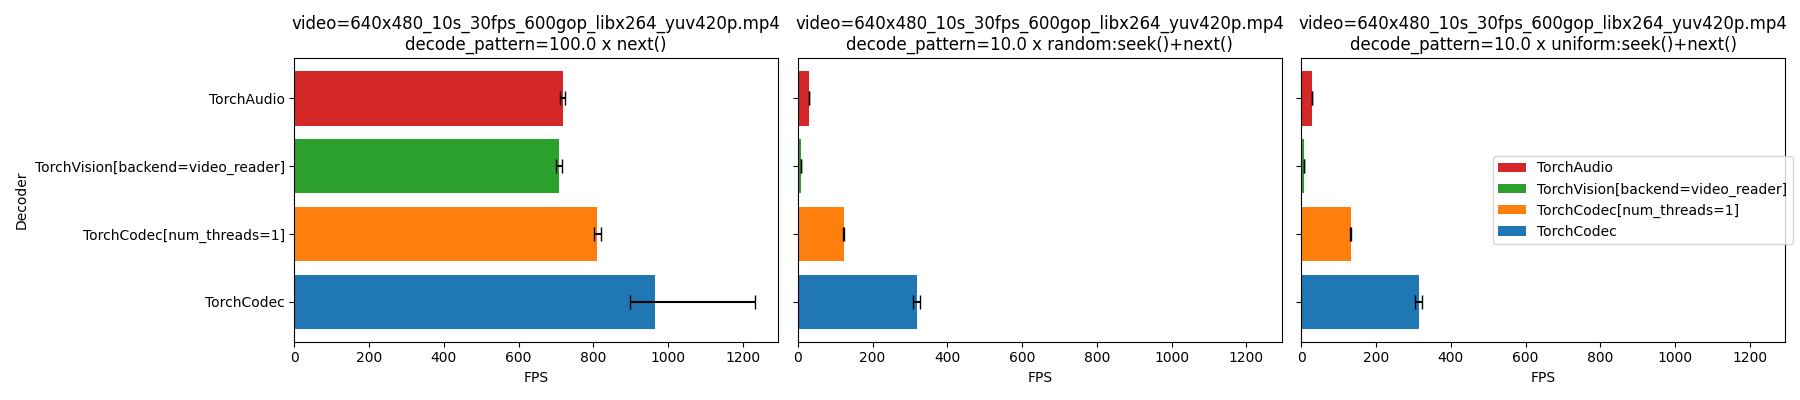
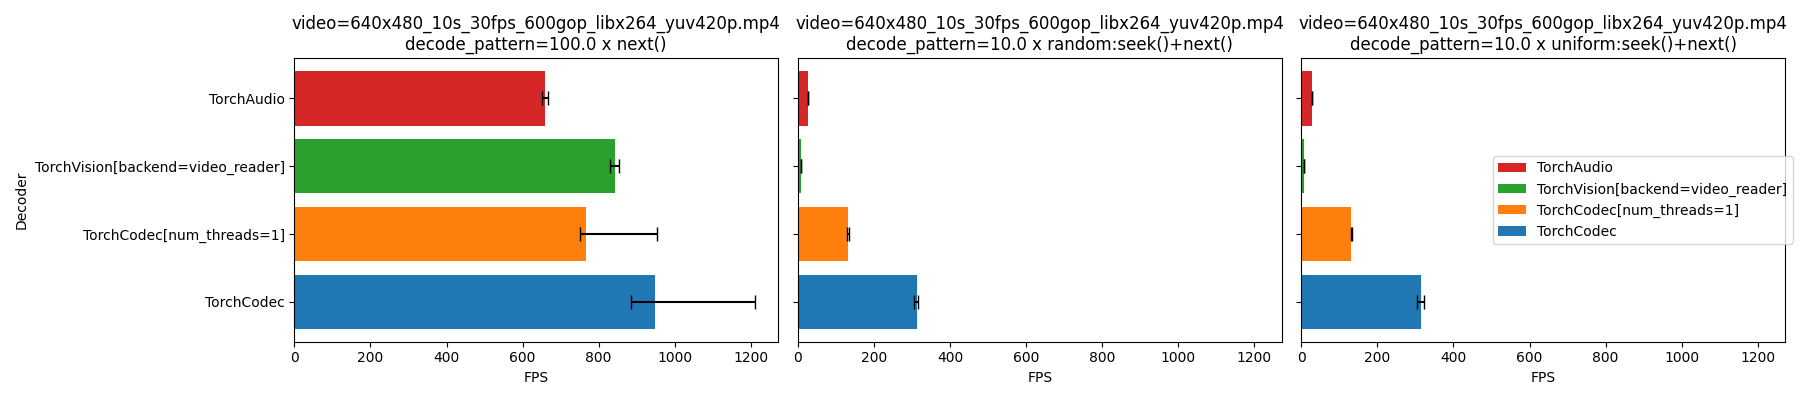
Generation new chart, add more next benchmarks

diff --git a/benchmarks/decoders/benchmark_decoders_library.py b/benchmarks/decoders/benchmark_decoders_library.py
@@ -472,28 +472,37 @@ def get_metadata(video_file_path: str) -> VideoStreamMetadata:
     return VideoDecoder(video_file_path).metadata
 
 def run_benchmarks(
-    decoder_dict,
-    video_files_paths,
-    num_samples,
-    min_runtime_seconds,
-    benchmark_video_creation,
+    decoder_dict: dict[str, AbstractDecoder],
+    video_files_paths: list[str],
+    num_samples: int,
+    num_sequential_frames_from_start: list[int],
+    min_runtime_seconds: float,
+    benchmark_video_creation: bool,
 ) -> list[dict[str, str | float | int]]:
+    # Ensure that we have the same seed across benchmark runs.
+    torch.manual_seed(0)
+
+    print(f"video_files_paths={video_files_paths}")
+
     results = []
     df_data = []
-    print(f"video_files_paths={video_files_paths}")
     verbose = False
-    for decoder_name, decoder in decoder_dict.items():
-        for video_file_path in video_files_paths:
+    for video_file_path in video_files_paths:
+        metadata = get_metadata(video_file_path)
+        metadata_label = f"{metadata.codec} {metadata.width}x{metadata.height}, {metadata.duration_seconds}s {metadata.average_fps}fps"
+
+        duration = metadata.duration_seconds
+        uniform_pts_list = [
+            i * duration / num_samples for i in range(num_samples)
+        ]
+
+        # Note that we are using the same random pts values for all decoders for the same
+        # video. However, because we use the duration as part of this calculation, we
+        # are using different random pts values across videos.
+        random_pts_list = (torch.rand(num_samples) * duration).tolist()
+
+        for decoder_name, decoder in decoder_dict.items():
             print(f"video={video_file_path}, decoder={decoder_name}")
-            metadata = get_metadata(video_file_path)
-            metadata_label = f"{metadata.codec} {metadata.width}x{metadata.height}, {metadata.duration_seconds}s {metadata.average_fps}fps"
-
-            duration = metadata.duration_seconds
-            uniform_pts_list = [
-                i * duration / num_samples for i in range(num_samples)
-            ]
-
-            random_pts_list = (torch.rand(num_samples) * duration).tolist()
 
             for kind, pts_list in [("uniform", uniform_pts_list), ("random", random_pts_list)]:
                 if verbose:
@@ -527,7 +536,7 @@ def run_benchmarks(
                 df_item["fps_p25"] = 1.0 * num_samples / results[-1]._p25
                 df_data.append(df_item)
 
-            for num_consecutive_nexts in [100]:
+            for num_consecutive_nexts in num_sequential_frames_from_start:
                 consecutive_frames_result = benchmark.Timer(
                     stmt="decoder.get_consecutive_frames_from_video(video_file, consecutive_frames_to_extract)",
                     globals={

diff --git a/benchmarks/decoders/benchmark_decoders.py b/benchmarks/decoders/benchmark_decoders.py
@@ -145,8 +145,9 @@ def main() -> None:
         decoder_dict,
         video_paths,
         num_uniform_samples,
-        args.bm_video_speed_min_run_seconds,
-        args.bm_video_creation,
+        num_sequential_frames_from_start=[1, 10, 100],
+        min_runtime_seconds=args.bm_video_speed_min_run_seconds,
+        benchmark_video_creation=args.bm_video_creation,
     )
     plot_data(df_data, args.plot_path)
 

diff --git a/benchmarks/decoders/generate_readme_data.py b/benchmarks/decoders/generate_readme_data.py
@@ -61,8 +61,9 @@ def main() -> None:
         decoder_dict,
         video_files_paths,
         num_samples,
-        30,
-        False,
+        num_sequential_frames_from_start=[100],
+        min_runtime_seconds=30,
+        benchmark_video_creation=False,
     )
     df_data.append(
         {
